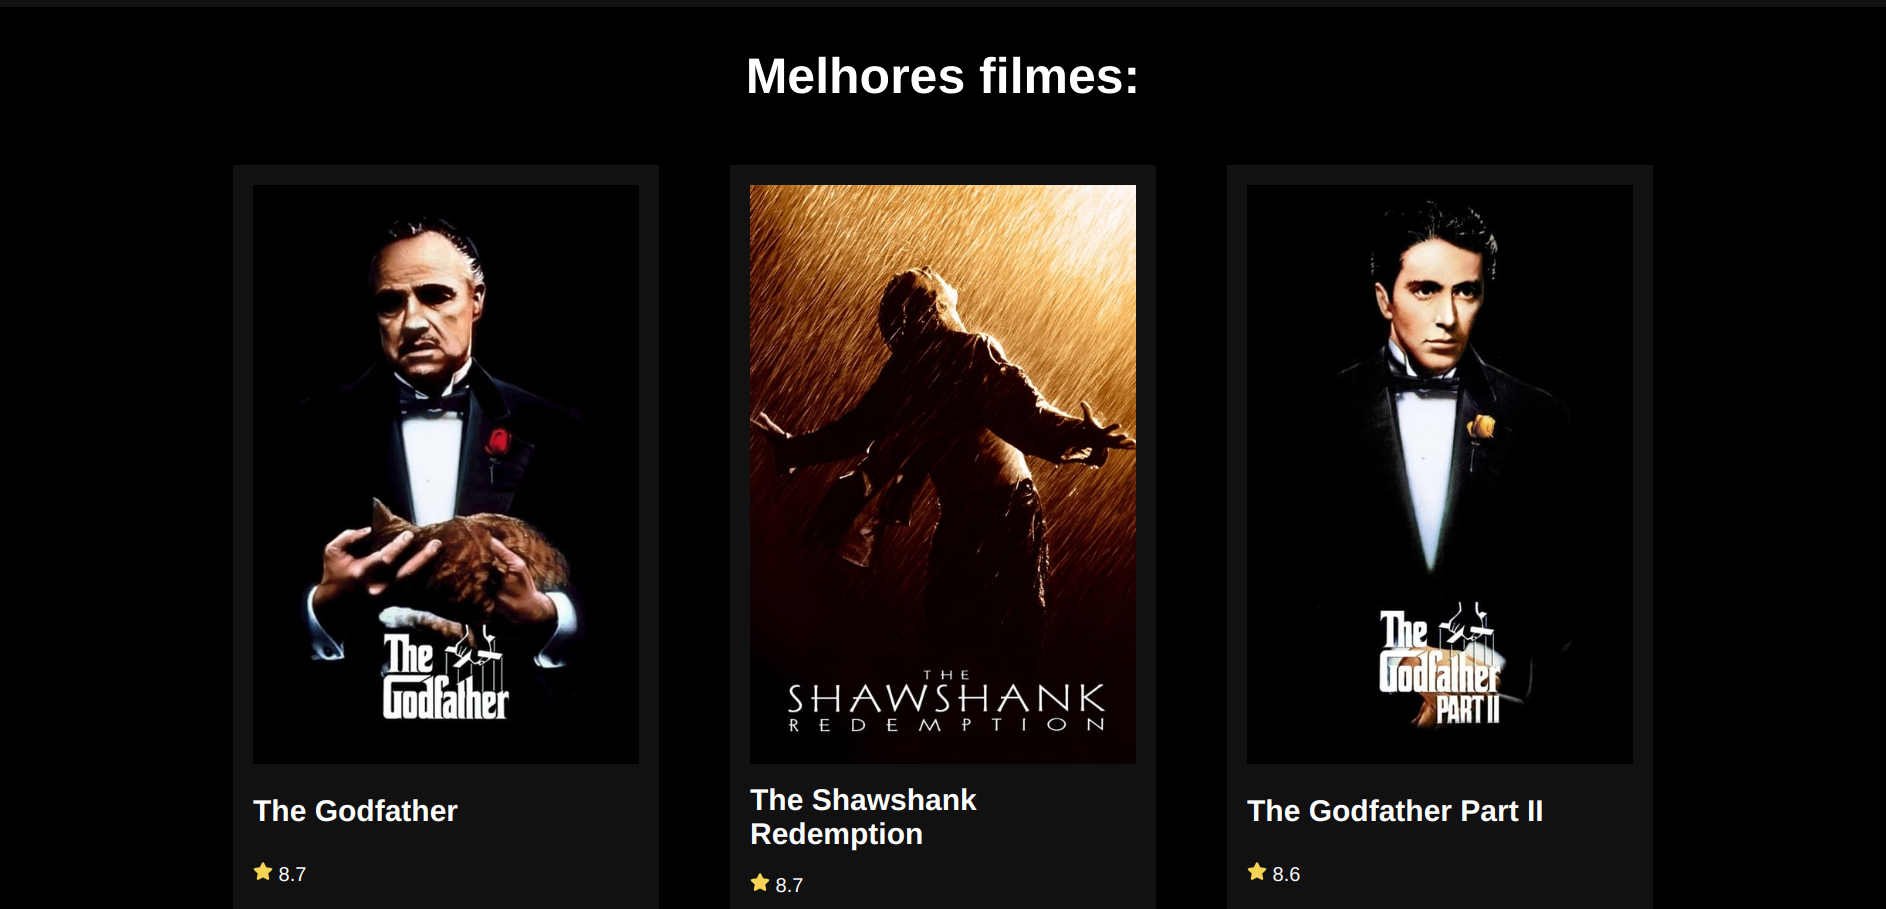
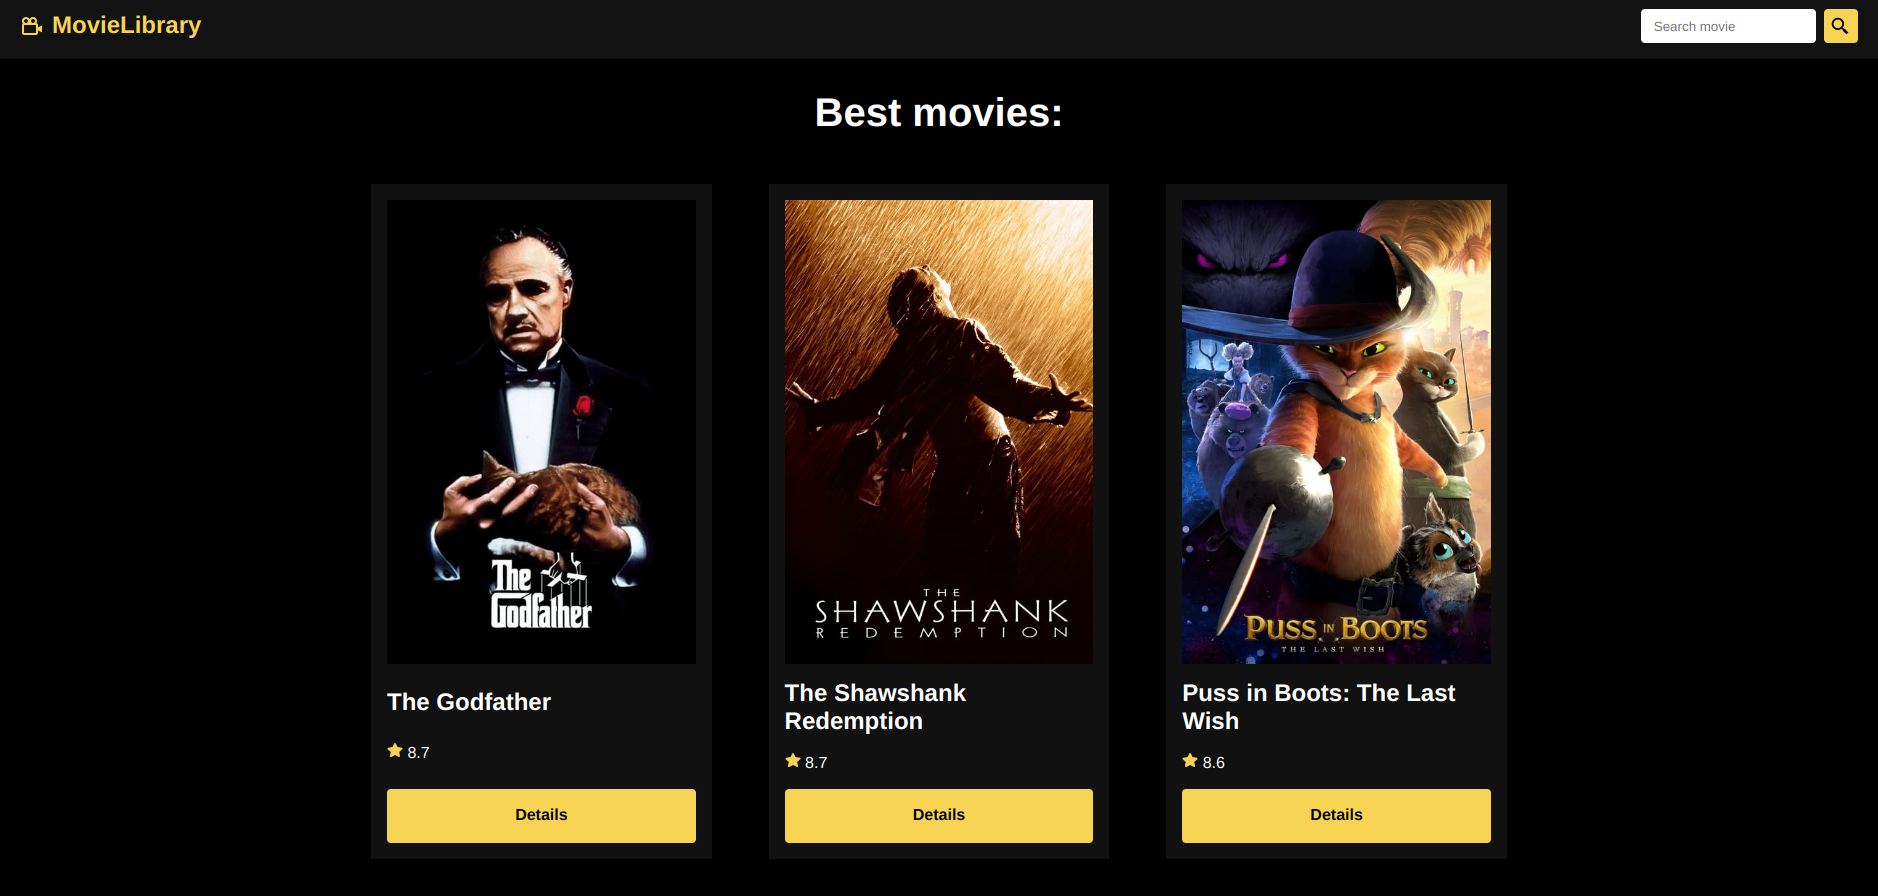
editando readme

diff --git a/movie_library/src/components/Navbar.jsx b/movie_library/src/components/Navbar.jsx
@@ -24,11 +24,11 @@ const Navbar = () => {
       <Link to='/'><BiCameraMovie />MovieLibrary</Link>
     </h2>
     <form onSubmit={handleSubmit}>
-      <input 
-        type="text" 
-        placeholder="Busque um filme" 
-        onChange={(e) => setSearch(e.target.value)} 
-        value={search} 
+      <input
+        type="text"
+        placeholder="Search movie"
+        onChange={(e) => setSearch(e.target.value)}
+        value={search}
       />
       <button type="submit">
         <BiSearchAlt2 />
